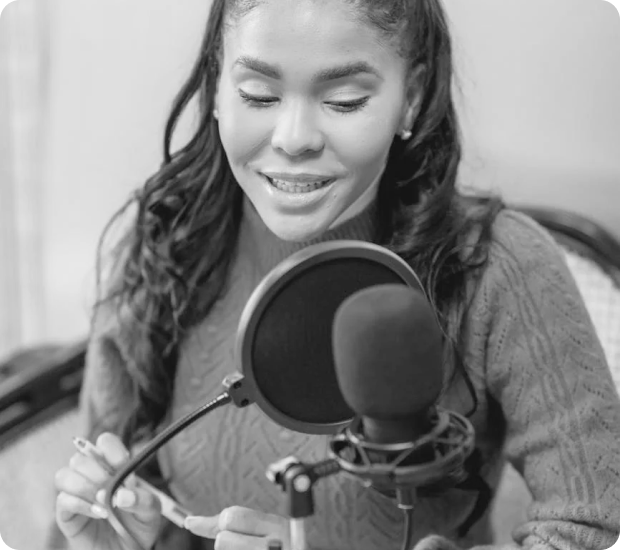
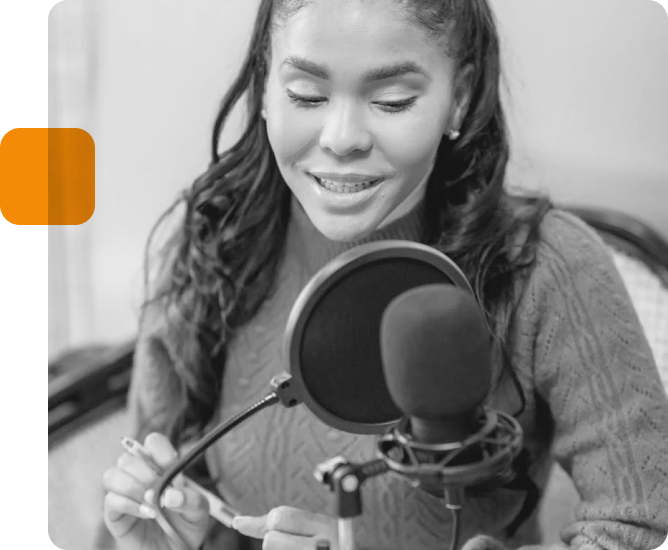
Ozgartirishlar kiritildi

diff --git a/src/pages/services/Box1.jsx b/src/pages/services/Box1.jsx
@@ -2,57 +2,30 @@ import Styles from "./Services.module.css"
 
 
 
-export function Box1({rasm,rasm1}) {
+export function Box1({rasm,rasm1,text,text1}) {
     return (
         <div className={Styles.box}>
             <div className={Styles.tepa}>
                 <div className={Styles.chap}>
-                    <h2 className={Styles.h2}>We serve clients with ground breaking solutions</h2>
+                    <h2 className={Styles.h2}>{text}</h2>
                     <p className={Styles.p}>Lorem ipsum dolor sit amet, consectetur adipiscing elit. Aliquam leo odio, sagittis quis ornare quis.</p>
                     <button>Work With Us</button>
                 </div>
-                <div className={Styles.rasm1}>
+                <div className={Styles.right}>
                     <img className={Styles.img} src={rasm} alt="" />
-                    {/* <svg className={Styles.svg} xmlns="http://www.w3.org/2000/svg" width="116" height="113" viewBox="0 0 116 113" fill="none">
-                        <path d="M50.5058 101.944L48.4734 113L44.3578 112.253C43.5448 112.104 42.9351 111.855 42.427 111.506C41.9697 111.157 41.614 110.759 41.4616 110.261C41.2583 109.763 41.2583 109.265 41.36 108.717C41.4616 108.269 41.614 107.87 41.8173 107.621C42.0205 107.372 42.3254 107.123 42.6302 106.974C42.9351 106.825 43.2908 106.775 43.6464 106.725V106.625C43.2908 106.526 42.9351 106.376 42.6302 106.078C42.3254 105.779 42.0713 105.43 41.9189 104.982C41.7664 104.534 41.7156 104.036 41.8173 103.488C41.9189 102.94 42.1729 102.442 42.4778 102.044C42.8335 101.645 43.2908 101.346 43.9005 101.197C44.5102 101.048 45.2724 101.048 46.1361 101.197L50.5058 101.944ZM47.6604 107.92L45.374 107.522C44.9675 107.472 44.6118 107.472 44.307 107.572C44.0021 107.671 43.6972 107.821 43.4432 108.07C43.1891 108.319 43.0875 108.568 42.9859 108.966C42.8843 109.414 42.9859 109.813 43.2908 110.211C43.5956 110.61 44.0529 110.809 44.7134 110.958L47.0507 111.357L47.6604 107.92ZM48.5242 103.04L46.0853 102.591C45.2724 102.442 44.6626 102.492 44.2561 102.741C43.8497 102.99 43.5956 103.338 43.494 103.787C43.4432 104.135 43.4432 104.484 43.5956 104.783C43.6972 105.082 43.9513 105.38 44.2561 105.629C44.561 105.878 44.9167 106.028 45.374 106.078L47.9145 106.526L48.5242 103.04Z" fill="#F58A07" />
-                        <path d="M36.7359 98.1592C37.4981 98.458 38.1078 98.9062 38.5143 99.5038C38.9208 100.052 39.1748 100.699 39.2256 101.446C39.2764 102.193 39.124 102.94 38.7683 103.737C38.4127 104.534 37.9554 105.181 37.3965 105.629C36.8375 106.127 36.177 106.426 35.5165 106.526C34.8051 106.625 34.0938 106.526 33.3824 106.227C32.9251 106.028 32.5186 105.779 32.163 105.48C31.8073 105.181 31.5533 104.783 31.35 104.335C31.1468 103.886 31.0451 103.388 31.096 102.791C31.096 102.193 31.2992 101.595 31.6041 100.898L31.8581 100.35L38.1586 102.94L37.6505 104.086L32.8743 102.093C32.7219 102.492 32.6203 102.89 32.6711 103.239C32.7219 103.637 32.8235 103.936 33.0268 104.235C33.23 104.534 33.5349 104.783 33.9413 104.932C34.3986 105.131 34.8051 105.181 35.2116 105.082C35.6181 105.032 35.9738 104.833 36.2786 104.584C36.5835 104.335 36.8375 103.986 36.99 103.637L37.3965 102.741C37.5997 102.243 37.7013 101.745 37.7013 101.297C37.6505 100.848 37.5489 100.45 37.2948 100.151C37.0408 99.8524 36.6851 99.5536 36.2278 99.3544C35.923 99.2548 35.6689 99.1552 35.364 99.1552C35.11 99.1552 34.8051 99.1552 34.6019 99.2548C34.3986 99.3544 34.1446 99.5038 33.9413 99.703L32.5695 98.8564C32.8743 98.5078 33.23 98.209 33.6873 98.0097C34.1446 97.8105 34.6019 97.7109 35.11 97.7607C35.6181 97.8105 36.177 97.9101 36.7359 98.1592Z" fill="#F58A07" />
-                        <path d="M22.2549 97.3622L23.6776 98.0096C23.6268 98.2088 23.576 98.408 23.6268 98.6072C23.6268 98.8064 23.7284 99.0554 23.8301 99.2546C23.9825 99.4538 24.1857 99.7028 24.4398 99.8522C24.8463 100.101 25.2019 100.251 25.6084 100.251C25.9641 100.251 26.269 100.101 26.4722 99.8522C26.6246 99.6032 26.6754 99.3542 26.6246 99.1052C26.5738 98.8562 26.3706 98.5574 26.0149 98.2088L25.0495 97.2127C24.4906 96.6151 24.1857 96.0673 24.0841 95.5693C23.9825 95.0713 24.0841 94.5235 24.4398 94.0255C24.7446 93.627 25.1003 93.3282 25.6084 93.1788C26.0657 93.0294 26.5738 92.9796 27.1835 93.129C27.7425 93.2286 28.3014 93.4776 28.9111 93.876C29.7241 94.4239 30.2322 95.0215 30.4862 95.6689C30.7403 96.3163 30.7403 97.0135 30.3846 97.7108L28.9111 97.0135C29.0635 96.6151 29.0635 96.2665 28.9619 95.9179C28.8095 95.5693 28.5554 95.2705 28.1489 94.9717C27.6916 94.6729 27.2852 94.5235 26.8787 94.5235C26.4722 94.5235 26.1673 94.6729 26.0149 94.9219C25.8625 95.1211 25.8117 95.3701 25.8625 95.6191C25.9133 95.8681 26.1165 96.1669 26.3706 96.4657L27.3868 97.5116C27.9457 98.1092 28.2506 98.657 28.3522 99.2048C28.4538 99.7526 28.3014 100.251 27.9457 100.749C27.6408 101.147 27.2852 101.446 26.8279 101.595C26.3706 101.745 25.8625 101.745 25.3544 101.645C24.8463 101.545 24.2873 101.296 23.7792 100.948C23.0171 100.45 22.509 99.8522 22.3057 99.2546C22.0009 98.657 22.0009 98.0096 22.2549 97.3622Z" fill="#F58A07" />
-                        <path d="M16.1577 97.5111L14.9382 96.3657L20.5782 90.6385C20.7814 90.3895 20.9338 90.1903 20.9847 90.0409C21.0355 89.8417 21.0355 89.6923 20.9338 89.5429C20.883 89.3934 20.7814 89.244 20.629 89.1444C20.5274 89.0448 20.4257 88.995 20.3749 88.9452C20.3241 88.8954 20.2225 88.8456 20.1717 88.7958L20.9338 87.6006C21.0355 87.6504 21.1371 87.7002 21.2895 87.7998C21.442 87.8994 21.6452 88.0488 21.7976 88.1982C22.1025 88.497 22.3565 88.8456 22.509 89.1942C22.6614 89.5429 22.7122 89.9413 22.6614 90.3397C22.6106 90.7381 22.3565 91.1365 22.0009 91.4851L16.1577 97.5111ZM15.0907 93.7262L16.0052 92.78L19.3587 95.9673L18.4441 96.9135L15.0907 93.7262Z" fill="#F58A07" />
-                        <path d="M15.3449 79.8316C15.5989 80.2798 15.7514 80.7778 15.8022 81.226C15.853 81.724 15.7514 82.1224 15.5481 82.5208C15.3449 82.9193 14.9892 83.2679 14.4811 83.5667C14.0746 83.8157 13.6681 83.9153 13.3125 83.9153C12.9568 83.9153 12.6011 83.8157 12.2963 83.6165C11.9914 83.4173 11.6865 83.2181 11.4325 82.9193C11.1784 82.6204 10.8736 82.3216 10.6703 82.0228C10.3655 81.6244 10.1114 81.2758 9.90817 81.0268C9.70493 80.7778 9.5525 80.6284 9.40007 80.5288C9.24764 80.4292 9.09521 80.479 8.89196 80.5786H8.84115C8.43467 80.8276 8.18062 81.1264 8.079 81.475C7.97738 81.8236 8.079 82.2718 8.33305 82.7201C8.63791 83.2181 8.94277 83.5169 9.29845 83.6663C9.65412 83.8157 10.0098 83.8655 10.3655 83.8157L10.8228 85.3097C10.2638 85.4093 9.75574 85.3595 9.29845 85.2101C8.84115 85.0607 8.43467 84.8117 8.079 84.5129C7.72333 84.1643 7.41846 83.8157 7.16441 83.3675C7.01198 83.0687 6.85955 82.7699 6.70712 82.3714C6.6055 82.0228 6.55469 81.6244 6.55469 81.226C6.55469 80.8276 6.70712 80.4292 6.91036 80.0806C7.1136 79.732 7.52008 79.3833 8.079 79.0347L13.0076 76.2458L13.8206 77.6403L12.8044 78.2379L12.8552 78.2877C13.1092 78.2877 13.3633 78.2877 13.6681 78.3873C13.973 78.4869 14.2271 78.6363 14.5319 78.8355C14.8368 79.1343 15.0908 79.4331 15.3449 79.8316ZM13.973 80.1802C13.7189 79.7818 13.4649 79.4829 13.16 79.2837C12.8552 79.0845 12.4995 78.9849 12.1438 78.9849C11.7882 78.9849 11.4833 79.0845 11.1784 79.2339L10.213 79.7818C10.3147 79.7818 10.4163 79.8814 10.5179 79.981C10.6195 80.0806 10.7719 80.23 10.9244 80.4292C11.0768 80.5786 11.1784 80.7778 11.3309 80.9272C11.4325 81.0766 11.5849 81.226 11.6357 81.3256C11.839 81.5746 12.0422 81.8236 12.2454 81.973C12.4487 82.1722 12.7027 82.2718 12.906 82.3216C13.16 82.3714 13.4141 82.3216 13.6681 82.1722C14.0238 81.973 14.2271 81.6742 14.2271 81.3256C14.3287 80.977 14.2271 80.5786 13.973 80.1802Z" fill="#F58A07" />
-                        <path d="M14.0749 69.5226C14.2781 70.1701 14.3797 70.7179 14.3289 71.2657C14.3289 71.7637 14.2273 72.2119 14.0241 72.6103C13.8208 73.0088 13.6176 73.3076 13.3127 73.5566L12.2965 72.4111C12.3981 72.2617 12.5506 72.1123 12.6522 71.8633C12.7538 71.6641 12.8554 71.3653 12.9062 71.0665C12.957 70.7677 12.9062 70.3693 12.7538 69.9709C12.5506 69.3732 12.2457 68.925 11.8392 68.6262C11.4327 68.3274 10.8738 68.2776 10.2641 68.4768L8.63816 68.9748L8.68897 69.0744C8.89222 69.1242 9.14627 69.174 9.40032 69.2736C9.65437 69.3732 9.90842 69.5724 10.2133 69.8215C10.5181 70.0705 10.6706 70.4689 10.823 70.9669C11.0262 71.6143 11.0771 72.2119 10.9246 72.8095C10.7722 73.4072 10.4673 73.955 9.95923 74.453C9.45113 74.951 8.79059 75.2996 7.92682 75.5984C7.06304 75.8474 6.25008 75.947 5.53873 75.8474C4.82739 75.7478 4.21766 75.4988 3.70956 75.1004C3.20146 74.702 2.84579 74.1542 2.64254 73.5068C2.49011 73.0088 2.4393 72.5605 2.49011 72.2119C2.54092 71.8633 2.69335 71.5645 2.84579 71.3155C2.99822 71.0665 3.15065 70.8673 3.30308 70.7179L3.25227 70.6183L1.9312 71.0167L1.4231 69.4728L9.8068 66.8832C10.5181 66.684 11.1279 66.6342 11.6868 66.8334C12.2457 67.0326 12.703 67.3314 13.1095 67.8294C13.516 68.3274 13.8716 68.8254 14.0749 69.5226ZM9.40032 70.9669C9.24789 70.5187 9.04465 70.1701 8.68897 69.9211C8.3333 69.672 7.97763 69.5226 7.52034 69.5226C7.06304 69.4728 6.55494 69.5724 5.99603 69.7218C5.43711 69.8713 4.97982 70.1203 4.62415 70.4191C4.26847 70.7179 4.01442 71.0665 3.86199 71.4151C3.70956 71.8135 3.70956 72.2119 3.86199 72.6601C4.01442 73.1084 4.26847 73.5068 4.62415 73.706C4.97982 73.955 5.3863 74.0546 5.8436 74.1044C6.30089 74.1542 6.80899 74.0546 7.31709 73.9052C7.87601 73.7558 8.28249 73.5068 8.63816 73.208C8.99384 72.9092 9.24789 72.5605 9.34951 72.2119C9.55275 71.8633 9.55275 71.4649 9.40032 70.9669Z" fill="#F58A07" />
-                        <path d="M8.99326 60.6084C9.09488 61.455 8.94245 62.1523 8.63758 62.7997C8.33272 63.4471 7.87543 63.9451 7.21489 64.2937C6.60517 64.6922 5.84301 64.8914 4.92843 64.991C4.06465 65.0906 3.25169 64.991 2.59115 64.6921C1.87981 64.4431 1.3209 64.0447 0.914412 63.4969C0.50793 62.9491 0.253878 62.3017 0.152257 61.5049C0.101447 61.0068 0.152257 60.5586 0.253878 60.1104C0.355499 59.6622 0.60955 59.214 0.914412 58.8654C1.21927 58.467 1.62576 58.1681 2.18467 57.9191C2.69277 57.6701 3.35331 57.5207 4.11546 57.4211L4.72519 57.3713L5.33491 64.0447L4.06465 64.1443L3.60736 59.0646C3.15007 59.1144 2.79439 59.214 2.48953 59.4132C2.18467 59.6124 1.93062 59.9112 1.77819 60.21C1.62576 60.5088 1.52414 60.9072 1.57495 61.3554C1.62576 61.8037 1.77819 62.2021 2.03224 62.5009C2.28629 62.7997 2.59115 63.0487 2.99764 63.1981C3.40412 63.3475 3.8106 63.3973 4.21708 63.3475L5.18248 63.2479C5.74139 63.1981 6.2495 63.0487 6.60517 62.7997C6.96084 62.5507 7.2657 62.2519 7.46895 61.9033C7.62138 61.5049 7.723 61.1064 7.67219 60.6084C7.62138 60.3096 7.57057 60.0108 7.46895 59.7618C7.36732 59.5128 7.21489 59.3136 7.01165 59.1144C6.80841 58.965 6.55436 58.8156 6.30031 58.7658L6.45274 57.1721C6.91003 57.2717 7.36732 57.4211 7.723 57.7199C8.07867 58.0187 8.38353 58.3674 8.63758 58.8654C8.89164 59.3634 8.94245 60.0108 8.99326 60.6084Z" fill="#F58A07" />
-                        <path d="M3.65834 52.4901L8.73938 53.0878L8.53614 54.7312L0 53.7352L0.203241 52.1913L1.57512 52.3407V52.2411C1.16864 51.9921 0.812965 51.6435 0.609724 51.1953C0.406483 50.7471 0.304862 50.1993 0.406483 49.6017C0.457293 49.0538 0.660534 48.5558 0.965396 48.1574C1.27026 47.759 1.67674 47.4602 2.18484 47.3108C2.69295 47.1116 3.30267 47.0618 4.01402 47.1614L9.45072 47.8088L9.24748 49.4523L3.96321 48.755C3.35348 48.7052 2.84538 48.8048 2.4389 49.0538C2.03241 49.3526 1.82917 49.7511 1.77836 50.2989C1.72755 50.6973 1.77836 50.9961 1.93079 51.3447C2.08322 51.6435 2.28647 51.8925 2.59133 52.1415C2.84538 52.2909 3.20105 52.4403 3.65834 52.4901Z" fill="#F58A07" />
-                        <path d="M11.3311 41.7832C11.0771 42.5302 10.6706 43.1777 10.1117 43.5761C9.55275 44.0243 8.89221 44.2733 8.18087 44.3729C7.46952 44.4725 6.65656 44.3729 5.84359 44.0741C5.03063 43.7753 4.31928 43.3769 3.81118 42.8788C3.30307 42.3808 2.9474 41.7832 2.79497 41.086C2.64254 40.3888 2.69335 39.6915 2.9474 38.9445C3.15064 38.3469 3.45551 37.8489 3.86199 37.4505C4.26847 37.0521 4.72576 36.7532 5.23387 36.6038C5.74197 36.4544 6.30088 36.4544 6.8598 36.554L6.35169 38.0481C5.94521 37.9983 5.53873 38.0979 5.18306 38.2971C4.82738 38.4963 4.52252 38.8449 4.37009 39.3429C4.21766 39.7911 4.21766 40.1896 4.31928 40.588C4.4209 40.9864 4.67495 41.335 5.03063 41.6836C5.3863 42.0322 5.84359 42.2812 6.45332 42.4804C7.06304 42.6796 7.57114 42.7792 8.07925 42.7294C8.58735 42.6796 8.99383 42.58 9.3495 42.331C9.70518 42.082 9.95923 41.7334 10.1117 41.2852C10.2133 40.9864 10.2641 40.6876 10.2133 40.4386C10.1625 40.1398 10.1117 39.8907 9.95923 39.6915C9.8068 39.4923 9.60356 39.2433 9.3495 39.0939L9.85761 37.5999C10.3657 37.8489 10.7722 38.1477 11.0771 38.5959C11.3819 38.9943 11.5852 39.4923 11.636 40.0402C11.636 40.588 11.5852 41.1856 11.3311 41.7832Z" fill="#F58A07" />
-                        <path d="M16.666 37.1519C16.5136 37.3511 16.412 37.5503 16.2595 37.6997C16.1071 37.8491 16.0055 37.9487 15.9039 38.0483L14.9385 37.0025C15.1417 36.8033 15.3449 36.5543 15.4466 36.3551C15.5482 36.1559 15.599 35.9069 15.5482 35.7077C15.4974 35.4587 15.3449 35.2096 15.0909 34.861L14.6844 34.4128L5.58936 32.7196L6.50394 31.2255L13.3633 32.7196L13.4141 32.62L8.79041 27.4406L9.70499 25.9465L16.2595 33.7654C16.5644 34.114 16.7676 34.5124 16.9201 34.861C17.0725 35.2096 17.1233 35.6081 17.0725 35.9567C17.0217 36.3053 16.8693 36.7535 16.666 37.1519Z" fill="#F58A07" />
-                        <path d="M21.5944 24.9505L20.7814 24.0043L21.0355 18.5261C21.0355 17.9285 21.0863 17.4305 21.0355 17.032C21.0355 16.6336 20.9846 16.2352 20.883 15.9364C20.7814 15.6376 20.629 15.3388 20.4257 15.0898C20.1717 14.791 19.8668 14.6416 19.562 14.542C19.2571 14.4424 18.9014 14.4424 18.5966 14.542C18.2917 14.6416 17.936 14.791 17.682 15.04C17.3771 15.289 17.1739 15.5878 17.0214 15.9364C16.9198 16.2352 16.869 16.5838 16.9706 16.9324C17.0722 17.2811 17.2247 17.5799 17.4787 17.8787L16.2593 18.9743C15.802 18.4763 15.4971 17.9285 15.3955 17.3309C15.2939 16.7332 15.3447 16.1356 15.5987 15.5878C15.8528 14.9902 16.2085 14.4922 16.7674 14.0439C17.3263 13.5957 17.8852 13.2969 18.4949 13.1475C19.1047 12.9981 19.6636 12.9981 20.2225 13.1973C20.7814 13.3467 21.2387 13.6455 21.6452 14.1435C21.95 14.4424 22.1533 14.791 22.3057 15.2392C22.4581 15.6376 22.5598 16.1356 22.5598 16.783C22.5598 17.4305 22.5598 18.1775 22.509 19.1735L22.3565 22.2612L22.4073 22.311L26.2689 18.9743L27.2343 20.0699L21.5944 24.9505Z" fill="#F58A07" />
-                        <path d="M33.0271 16.9323C32.2649 17.3307 31.4519 17.4801 30.6898 17.3805C29.9276 17.2809 29.1655 16.9323 28.4541 16.2849C27.7428 15.6873 27.0823 14.8406 26.5233 13.745C25.9136 12.6494 25.5579 11.7031 25.4563 10.7569C25.3547 9.86048 25.4563 9.06365 25.7612 8.36643C26.1169 7.6692 26.625 7.12138 27.4379 6.72297C28.2001 6.32456 28.9622 6.17515 29.7752 6.27475C30.5882 6.37436 31.2995 6.72297 32.0109 7.32059C32.7222 7.91821 33.3827 8.76484 33.9417 9.81067C34.5514 10.9063 34.9071 11.9023 35.0087 12.7988C35.1611 13.6952 35.0595 14.5418 34.7038 15.1893C34.3481 15.9363 33.7892 16.4841 33.0271 16.9323ZM32.3157 15.6375C32.9763 15.2889 33.3319 14.6912 33.3827 13.7948C33.4335 12.9482 33.0779 11.9023 32.4173 10.6573C31.9601 9.86048 31.5028 9.21305 30.9947 8.71504C30.4865 8.21702 30.0293 7.91821 29.5212 7.81861C29.013 7.719 28.5558 7.76881 28.0985 8.01781C27.4379 8.36643 27.0823 8.96405 27.0314 9.86048C26.9806 10.7071 27.3363 11.7529 27.9968 12.998C28.4541 13.8446 28.9114 14.492 29.4195 14.9402C29.9276 15.4383 30.3849 15.6873 30.893 15.8367C31.3503 15.9363 31.8584 15.8865 32.3157 15.6375Z" fill="#F58A07" />
-                        <path d="M38.9208 13.9443L38.5651 12.7491L41.2072 7.91833C41.5121 7.42032 41.7153 6.9223 41.8678 6.57369C42.0202 6.17528 42.1726 5.82666 42.2234 5.52785C42.2743 5.22904 42.2743 4.88043 42.1726 4.58162C42.071 4.23301 41.9186 3.9342 41.6645 3.73499C41.4105 3.53579 41.1056 3.38638 40.8008 3.33658C40.4451 3.28678 40.0894 3.28678 39.7337 3.38638C39.3273 3.48599 39.0224 3.68519 38.7683 3.8844C38.5143 4.13341 38.3619 4.43222 38.2602 4.73103C38.1586 5.02984 38.2094 5.42825 38.311 5.82666L36.7359 6.27488C36.5327 5.62746 36.5327 4.98004 36.7359 4.43222C36.8884 3.8346 37.244 3.33658 37.7013 2.93817C38.1586 2.53975 38.7175 2.24094 39.4289 2.04174C40.1402 1.84253 40.7499 1.84253 41.3597 1.94213C41.9694 2.04174 42.4775 2.34055 42.9348 2.68916C43.3413 3.08757 43.6461 3.53579 43.8494 4.13341C43.951 4.53182 44.0018 4.93023 43.951 5.37845C43.9002 5.82666 43.7478 6.32468 43.4937 6.8725C43.2397 7.42032 42.884 8.16734 42.4267 9.01397L40.8516 11.8527V11.9523L45.831 10.6076L46.2375 12.0021L38.9208 13.9443Z" fill="#F58A07" />
-                        <path d="M52.7414 11.5536C51.8776 11.6034 51.1154 11.4042 50.4549 10.956C49.7944 10.5078 49.2863 9.91019 48.9306 9.06356C48.5749 8.21693 48.3717 7.1711 48.27 5.97586C48.2192 4.78062 48.3209 3.73478 48.6257 2.83835C48.9306 1.94192 49.3879 1.2945 49.9976 0.796484C50.6073 0.298468 51.3695 0.0494594 52.2333 -0.00034225C53.097 -0.0501439 53.8592 0.149063 54.5197 0.597278C55.1803 1.04549 55.6884 1.64311 56.044 2.48974C56.3997 3.33637 56.6538 4.38221 56.7046 5.57745C56.7554 6.82249 56.6538 7.86832 56.3489 8.71495C56.044 9.56158 55.5867 10.2588 55.0278 10.7568C54.3673 11.2548 53.6559 11.5038 52.7414 11.5536ZM52.6905 10.1094C53.4527 10.0596 54.0624 9.66118 54.4689 8.91416C54.8754 8.16713 55.0278 7.0715 54.977 5.67705C54.9262 4.73082 54.7738 3.98379 54.5705 3.33637C54.3673 2.68895 54.0116 2.24073 53.6559 1.89212C53.2495 1.59331 52.843 1.44391 52.3349 1.44391C51.5727 1.49371 50.963 1.89212 50.5565 2.63915C50.15 3.38617 49.9976 4.48181 50.0484 5.87626C50.0992 6.82249 50.2517 7.61931 50.4549 8.21693C50.6581 8.81455 51.0138 9.31257 51.3695 9.66118C51.7251 10.0098 52.1824 10.1094 52.6905 10.1094Z" fill="#F58A07" />
-                        <path d="M70.9315 7.37028L70.5758 8.76473L65.6472 7.46989L66.0029 6.07544L70.9315 7.37028Z" fill="#F58A07" />
-                        <path d="M76.4192 16.3843L77.0797 15.3384L82.5164 14.0436C83.0754 13.8942 83.5835 13.7448 83.9899 13.6452C84.3964 13.5456 84.7521 13.3464 85.0062 13.197C85.2602 13.0476 85.5143 12.7985 85.6667 12.4997C85.8699 12.2009 85.9715 11.8523 85.9715 11.5535C85.9715 11.2049 85.8699 10.9061 85.7175 10.6571C85.5143 10.3583 85.2602 10.1093 84.9553 9.91005C84.5997 9.71084 84.244 9.56144 83.8883 9.56144C83.5327 9.56144 83.2278 9.61124 82.9229 9.76064C82.6181 9.91005 82.364 10.1591 82.1608 10.5077L80.7889 9.66104C81.1446 9.06342 81.6019 8.66501 82.1608 8.416C82.7197 8.16699 83.2786 8.06739 83.9391 8.11719C84.5489 8.16699 85.1586 8.3662 85.7683 8.76461C86.378 9.16302 86.8353 9.61124 87.1402 10.1093C87.4451 10.6571 87.5975 11.2049 87.5975 11.7527C87.5975 12.3005 87.445 12.8483 87.0894 13.3464C86.8861 13.695 86.5813 13.9938 86.2256 14.2428C85.8699 14.4918 85.4126 14.7408 84.8029 14.94C84.1932 15.1392 83.431 15.3384 82.4656 15.5874L79.2646 16.3843L79.2138 16.4341L83.5835 19.1234L82.7705 20.3684L76.4192 16.3843Z" fill="#F58A07" />
-                        <path d="M87.4953 24.801C86.8856 24.2034 86.5299 23.5062 86.3775 22.7591C86.2759 22.0121 86.3775 21.2153 86.784 20.3686C87.1904 19.522 87.8002 18.6754 88.7148 17.8288C89.5785 16.9821 90.4423 16.3347 91.3061 15.9861C92.1699 15.5877 92.9828 15.4881 93.745 15.5877C94.5071 15.6873 95.2185 16.0857 95.8282 16.6833C96.4379 17.2809 96.7936 17.9782 96.946 18.7252C97.0476 19.4722 96.946 20.269 96.5395 21.1157C96.1331 21.9623 95.5233 22.8089 94.6596 23.6556C93.7958 24.5022 92.8812 25.1496 92.0682 25.4982C91.2045 25.8966 90.3915 25.9962 89.6293 25.8966C88.8164 25.797 88.105 25.3986 87.4953 24.801ZM88.5623 23.7552C89.1212 24.303 89.7818 24.4524 90.6455 24.2532C91.5093 24.054 92.4239 23.4065 93.4401 22.4603C94.1006 21.8129 94.6087 21.1655 94.9644 20.5679C95.2693 19.9702 95.4217 19.4224 95.4217 18.9244C95.4217 18.4264 95.2185 18.028 94.8628 17.6296C94.3039 17.0817 93.6434 16.9323 92.7796 17.1315C91.9158 17.3307 91.0012 17.9782 89.985 18.9244C89.3245 19.5718 88.8164 20.2192 88.4607 20.8169C88.1558 21.4145 88.0034 21.9623 88.0034 22.4603C88.0034 23.0081 88.2066 23.4065 88.5623 23.7552Z" fill="#F58A07" />
-                        <path d="M92.0686 29.5317L93.1356 28.8843L98.5723 30.0297C99.182 30.1293 99.6901 30.2289 100.097 30.2787C100.503 30.3285 100.91 30.3285 101.214 30.2787C101.519 30.2289 101.824 30.1293 102.129 29.9301C102.434 29.7309 102.688 29.4819 102.84 29.1831C102.993 28.8843 103.044 28.5855 102.993 28.2368C102.942 27.8882 102.84 27.5894 102.637 27.2408C102.434 26.8922 102.18 26.6432 101.875 26.4938C101.57 26.3444 101.265 26.2448 100.91 26.2946C100.554 26.2946 100.198 26.444 99.8934 26.6432L99.0296 25.2487C99.6393 24.9001 100.198 24.7009 100.859 24.7009C101.519 24.7009 102.027 24.8503 102.586 25.1491C103.145 25.448 103.603 25.8962 103.958 26.4938C104.365 27.0914 104.568 27.689 104.619 28.2866C104.67 28.8843 104.568 29.4321 104.314 29.9799C104.06 30.5277 103.653 30.9261 103.145 31.2249C102.79 31.4242 102.383 31.5736 101.977 31.6732C101.57 31.7728 101.011 31.7728 100.401 31.6732C99.7918 31.6234 98.9788 31.474 98.0134 31.2747L94.7615 30.6273L94.7107 30.6771L97.4545 34.9601L96.1842 35.7071L92.0686 29.5317Z" fill="#F58A07" />
-                        <path d="M109.446 38.1973L98.7247 42.1814L98.115 40.5878L107.21 37.2013V37.1515L104.568 35.259L106.092 34.6614L108.836 36.6534L109.446 38.1973Z" fill="#F58A07" />
-                        <path d="M116 51.2455L97.2511 53.138L97.0986 51.6937L115.848 49.8013L116 51.2455Z" fill="#F58A07" />
-                        <path d="M112.037 64.2935L100.655 62.9489L100.859 61.3054L112.24 62.6501L112.037 64.2935Z" fill="#F58A07" />
-                        <path d="M99.1312 69.1242C99.3344 68.3771 99.7409 67.7297 100.249 67.2815C100.757 66.8333 101.418 66.5345 102.129 66.3851C102.84 66.2357 103.653 66.2855 104.517 66.5345C105.381 66.7835 106.092 67.1321 106.651 67.6301C107.21 68.1281 107.566 68.7257 107.769 69.3732C107.972 70.0206 107.921 70.7676 107.718 71.5146C107.515 72.2617 107.108 72.9091 106.6 73.3573C106.092 73.8055 105.432 74.1043 104.72 74.2537C104.009 74.4031 103.196 74.3533 102.332 74.1043C101.468 73.8553 100.757 73.5067 100.249 73.0087C99.6901 72.5107 99.3344 71.9131 99.1312 71.2656C98.9279 70.6182 98.9279 69.8712 99.1312 69.1242ZM100.503 69.5226C100.351 70.0206 100.351 70.4688 100.554 70.8672C100.757 71.2656 101.011 71.6142 101.418 71.8633C101.824 72.1621 102.281 72.3613 102.79 72.5107C103.298 72.6601 103.806 72.7099 104.314 72.7099C104.822 72.6601 105.228 72.5605 105.584 72.3115C105.94 72.0625 106.194 71.7138 106.346 71.2158C106.499 70.7178 106.499 70.2696 106.295 69.8712C106.143 69.4728 105.838 69.1242 105.432 68.8253C105.025 68.5265 104.568 68.3273 104.06 68.1779C103.552 68.0285 103.044 67.9787 102.535 67.9787C102.027 68.0285 101.621 68.1281 101.265 68.4269C100.91 68.6759 100.655 69.0246 100.503 69.5226Z" fill="#F58A07" />
-                        <path d="M100.96 78.8855L96.4888 76.495L97.3018 75.0508L104.872 79.0349L104.11 80.4294L102.891 79.7819L102.84 79.8816C103.145 80.28 103.297 80.6784 103.348 81.1764C103.399 81.6744 103.247 82.1724 102.942 82.7701C102.688 83.2681 102.332 83.6665 101.875 83.9155C101.468 84.1645 100.96 84.3139 100.452 84.3139C99.8931 84.3139 99.3342 84.1147 98.7244 83.8159L93.8975 81.276L94.7104 79.8318L99.3342 82.272C99.8931 82.5708 100.401 82.6705 100.858 82.521C101.316 82.4214 101.671 82.1226 101.976 81.6246C102.18 81.276 102.23 80.9772 102.23 80.6286C102.23 80.28 102.129 79.9812 101.926 79.6823C101.671 79.3835 101.367 79.1345 100.96 78.8855Z" fill="#F58A07" />
-                        <path d="M90.0868 85.7578C90.5441 85.2598 91.103 84.9112 91.7127 84.712C92.3224 84.5626 92.983 84.5626 93.6943 84.7618C94.4057 84.961 95.117 85.3594 95.7775 85.957C96.4381 86.5546 96.997 87.202 97.251 87.8495C97.5559 88.4969 97.6575 89.1443 97.5559 89.7917C97.4543 90.4392 97.2002 90.987 96.7429 91.485C96.3873 91.8834 96.0316 92.1324 95.6759 92.2818C95.3202 92.4312 95.0154 92.481 94.7105 92.4312C94.4057 92.4312 94.1516 92.3814 93.9484 92.3316L93.8976 92.3814L97.0986 95.1205L95.9808 96.3655L87.343 88.9949L88.41 87.7997L89.4262 88.6463L89.5279 88.5467C89.4771 88.3475 89.3754 88.0985 89.3246 87.7997C89.2738 87.5009 89.2738 87.202 89.3754 86.8534C89.4771 86.5048 89.7311 86.1562 90.0868 85.7578ZM90.8997 86.953C90.5949 87.3017 90.3916 87.7001 90.3916 88.0985C90.3916 88.4969 90.4933 88.9451 90.6965 89.3435C90.9506 89.7419 91.2554 90.1901 91.7127 90.5388C92.17 90.9372 92.6273 91.1862 93.0846 91.3356C93.5419 91.485 93.9484 91.5348 94.3548 91.4352C94.7613 91.3356 95.117 91.1364 95.4219 90.7878C95.7267 90.4392 95.93 90.0407 95.93 89.5925C95.93 89.1941 95.8283 88.7459 95.6251 88.3475C95.3711 87.9491 95.0662 87.5507 94.6597 87.202C94.2024 86.8534 93.7959 86.5546 93.3386 86.4052C92.8813 86.2558 92.4241 86.206 92.0176 86.2558C91.6111 86.3554 91.2554 86.6044 90.8997 86.953Z" fill="#F58A07" />
-                        <path d="M82.3129 92.9297C82.9734 92.4815 83.634 92.1827 84.3453 92.1329C85.0566 92.0831 85.7172 92.1827 86.3777 92.5313C87.0383 92.8799 87.648 93.3779 88.1561 94.0751C88.6642 94.7724 89.0199 95.4696 89.1723 96.2166C89.3247 96.9138 89.2231 97.6111 88.9691 98.2585C88.715 98.9059 88.2577 99.4537 87.5972 99.9517C86.9366 100.4 86.2761 100.699 85.5647 100.749C84.8534 100.798 84.1929 100.649 83.5323 100.35C82.8718 100.002 82.2621 99.5035 81.754 98.8063C81.2459 98.1091 80.8902 97.4118 80.7886 96.6648C80.687 95.9178 80.7378 95.2704 80.9918 94.623C81.1951 93.9257 81.6523 93.3779 82.3129 92.9297ZM83.1259 94.0253C82.7194 94.3241 82.4653 94.6728 82.3129 95.121C82.1605 95.5692 82.2113 95.9676 82.3637 96.4158C82.5161 96.864 82.7194 97.3122 83.075 97.7605C83.3799 98.2087 83.7864 98.5573 84.1929 98.8063C84.5994 99.0553 85.0058 99.2047 85.4631 99.2545C85.9204 99.3043 86.3269 99.1549 86.7334 98.8063C87.1399 98.5075 87.4447 98.1589 87.5464 97.7107C87.648 97.2624 87.648 96.864 87.4955 96.366C87.3431 95.9178 87.1399 95.4696 86.7842 95.0214C86.4793 94.5732 86.0729 94.2245 85.6664 93.9755C85.2599 93.7265 84.8534 93.5771 84.3961 93.5771C83.9896 93.5771 83.5831 93.7265 83.1259 94.0253Z" fill="#F58A07" />
-                        <path d="M77.6889 101.745L75.6056 97.163L77.1299 96.4658L80.6867 104.135L79.2132 104.783L78.6543 103.538L78.5526 103.587C78.5526 104.085 78.451 104.534 78.1462 104.932C77.8921 105.331 77.4348 105.679 76.8759 105.928C76.317 106.177 75.8089 106.277 75.3008 106.227C74.7927 106.177 74.3354 105.978 73.9289 105.679C73.5224 105.38 73.1667 104.882 72.8619 104.235L70.6262 99.3543L72.1505 98.6571L74.3354 103.338C74.5894 103.886 74.9451 104.285 75.4024 104.434C75.8597 104.633 76.317 104.583 76.8251 104.384C77.1808 104.235 77.4348 104.036 77.638 103.737C77.8413 103.488 77.9429 103.139 77.9937 102.791C77.9937 102.542 77.8921 102.193 77.6889 101.745Z" fill="#F58A07" />
-                    </svg> */}
+                    
                 </div>
 
             </div>
             <div className={Styles.pass}>
-                <div className={Styles.rasm2}>
-                    <img src={rasm1} alt="" />
-                    <div className={Styles.chiziq}>
+                <div className={Styles.left}>
+                    <img  className={Styles.img1} src={rasm1} alt="" />
+                    {/* <div  className={Styles.chiziq}>
 
-                    </div>
+                    </div> */}
                 </div>
                 <div className={Styles.ong}>
-                    <h2 className={Styles.h}>Business strategy</h2>
+                    <h2 className={Styles.h}>{text1}</h2>
                     <p className={Styles.pp}>Lorem ipsum dolor sit amet, consectetur adipiscing elit. Aliquam leo odio, sagittis quis ornare quis.met, consectetur adipiscing elit. Aliquam leo odio, sagittis quis ornare quis.</p>
                     <ul>
                         <li className={Styles.l}>Cost strategy</li>

diff --git a/src/pages/services/Services.module.css b/src/pages/services/Services.module.css
@@ -4,7 +4,6 @@
 
 .servise {
     width: 100%;
-    /* background-color: red; */
 }
 
 .box {
@@ -93,28 +92,29 @@ li {
 
 }
 
-img {
+.img {
     width: 100%;
     height: 80vh;
-    background-image: url("./img1.png");
+    /* background-image: url("./img1.png"); */
     background-repeat: no-repeat;
     background-size: cover;
     background-position: center;
     border-radius: 20px;
 }
-/* 
-.rasm3 {
-    width: 40%;
+
+.img1 {
+
+    width: 100%;
     height: 80vh;
-    background-image: url("./img3.png");
+    /* background-image: url("./img1.png"); */
     background-repeat: no-repeat;
     background-size: cover;
     background-position: center;
     border-radius: 20px;
-    z-index: 30;
-    border-radius: 20px;
+    margin-left: 30px;
+}
 
-} */
+
 
 .h0 {
     color: #0D1317;
@@ -125,17 +125,8 @@ img {
     text-transform: capitalize;
     width: 70%;
 }
-/* 
-.rasm0 {
-    width: 45%;
-    height: 80vh;
-    background-image: url("./img5.png");
-    background-repeat: no-repeat;
-    background-size: cover;
-    background-position: center;
-    border-radius: 20px;
 
-} */
+
 
 .port {
     width: 40%;
@@ -145,7 +136,7 @@ img {
     justify-content: space-evenly;
     align-items: center;
     margin-left: -50px;
-   
+
 }
 
 .mute {
@@ -177,17 +168,6 @@ img {
     align-items: center;
     justify-content: center;
 }
-/* 
-.rasm10 {
-    width: 40%;
-    height: 8vh;
-    background-image: url("./img10.png");
-    background-repeat: no-repeat;
-    background-size: cover;
-    background-position: center;
-    border-radius: 50%;
-    margin-right: 150px;
-} */
 
 .h10 {
     color: #063255;
@@ -216,17 +196,7 @@ img {
     width: 60%;
 }
 
-/* .rasm4 {
-    width: 40%;
-    height: 80vh;
-    background-image: url("./img4.png");
-    background-repeat: no-repeat;
-    background-size: cover;
-    background-position: center;
-    border-radius: 20px;
-    margin-left: 50px;
 
-} */
 
 .p3 {
     color: #5B5B5B;
@@ -244,17 +214,8 @@ img {
     line-height: 56px;
     letter-spacing: -1.44px;
 }
-/* 
-.rasm2 {
-    width: 40%;
-    height: 80vh;
-    background-image: url("./img2.png");
-    background-repeat: no-repeat;
-    background-size: cover;
-    background-position: center;
-    border-radius: 20px;
-    margin-left: 50px;
-} */
+
+
 
 .h2 {
     color: #1D3444;
@@ -275,7 +236,6 @@ img {
 
 button {
     color: #FFF;
-    font-family: Poppins;
     font-size: 16px;
     font-weight: 600;
     line-height: 106.5%;

diff --git a/src/pages/services/Services.jsx b/src/pages/services/Services.jsx
@@ -3,20 +3,94 @@ import rasm1 from "./img1.png"
 import rasm2 from "./img2.png"
 import rasm3 from "./img3.png"
 import rasm4 from "./img4.png"
+import rasm5 from "./img5.png"
+import rasm6 from "./img6.png"
 import { Box1 } from "./Box1"
+import { GlobalQiz } from "../../assets/assets"
+
 
 
 function Services() {
     return (
         <div className={Styles.servise}>
-            <Box1 rasm={rasm1} rasm1={rasm2} />
-            {/* <Box1  rasm={rasm3} rasm1={rasm4} /> */}
+            <Box1 rasm={rasm1} rasm1={rasm2} text={"We serve clients with ground breaking solutions"} text1={"Business strategy"}/>
+            <Box1  rasm={rasm3} rasm1={rasm4} text={"Digitalization"} text1={"Risk assessment"}/>
+            <Box1  rasm={rasm5} rasm1={rasm6}  text={"Artificial intelligence"} text1={"Smart Contracts"}/>
+            <GlobalQiz />s
+
+
+
+
+        </div>
+    )
+}
+
+export default Services
 
 
 
 
 
-            {/* <div className={Styles.box}>
+
+
+
+
+
+
+
+
+
+
+
+
+
+
+
+
+
+
+
+
+
+
+
+
+
+
+
+
+
+
+
+
+
+
+
+
+
+
+
+
+
+
+
+
+
+
+
+
+
+
+
+
+
+
+
+
+
+
+
+ {/* <div className={Styles.box}>
                 <div className={Styles.tepa}>
                     <div className={Styles.chap}>
                         <h2 className={Styles.h5}>Digitalization</h2>
@@ -79,10 +153,3 @@ function Services() {
                 </div>
 
     </div>*/}
-        </div>
-    )
-}
-
-export default Services
-
-
